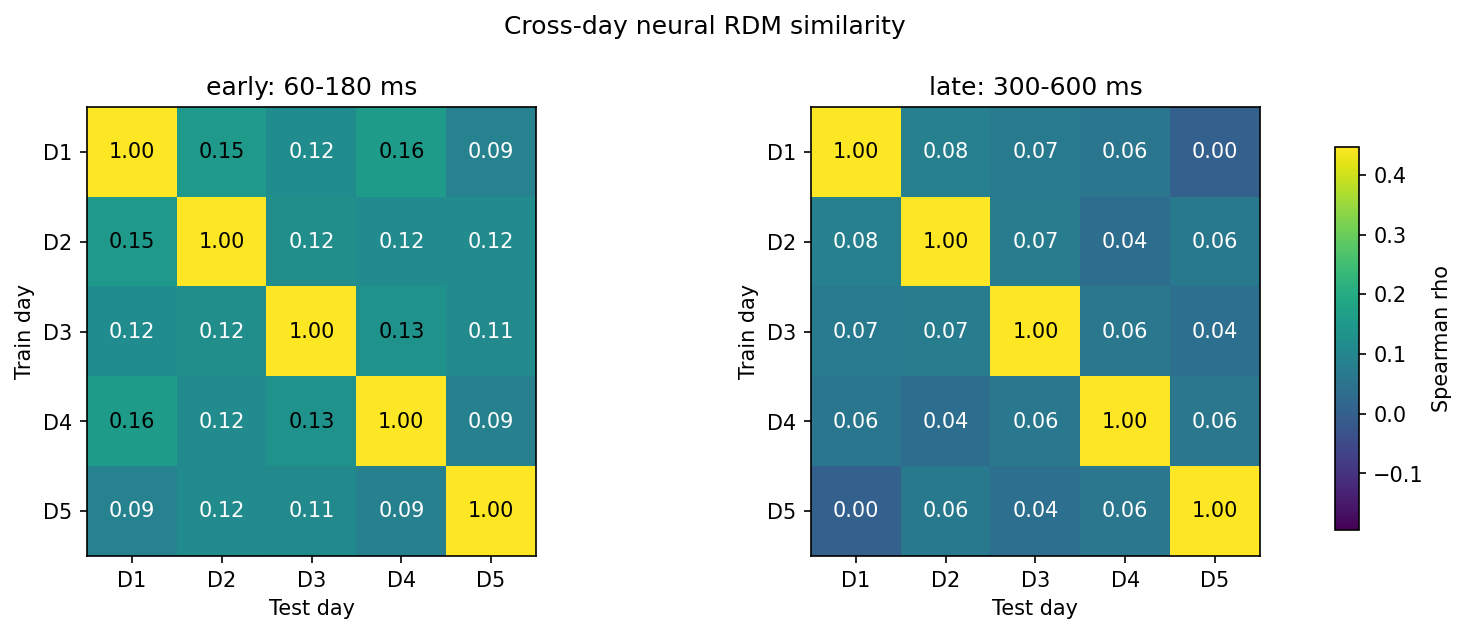
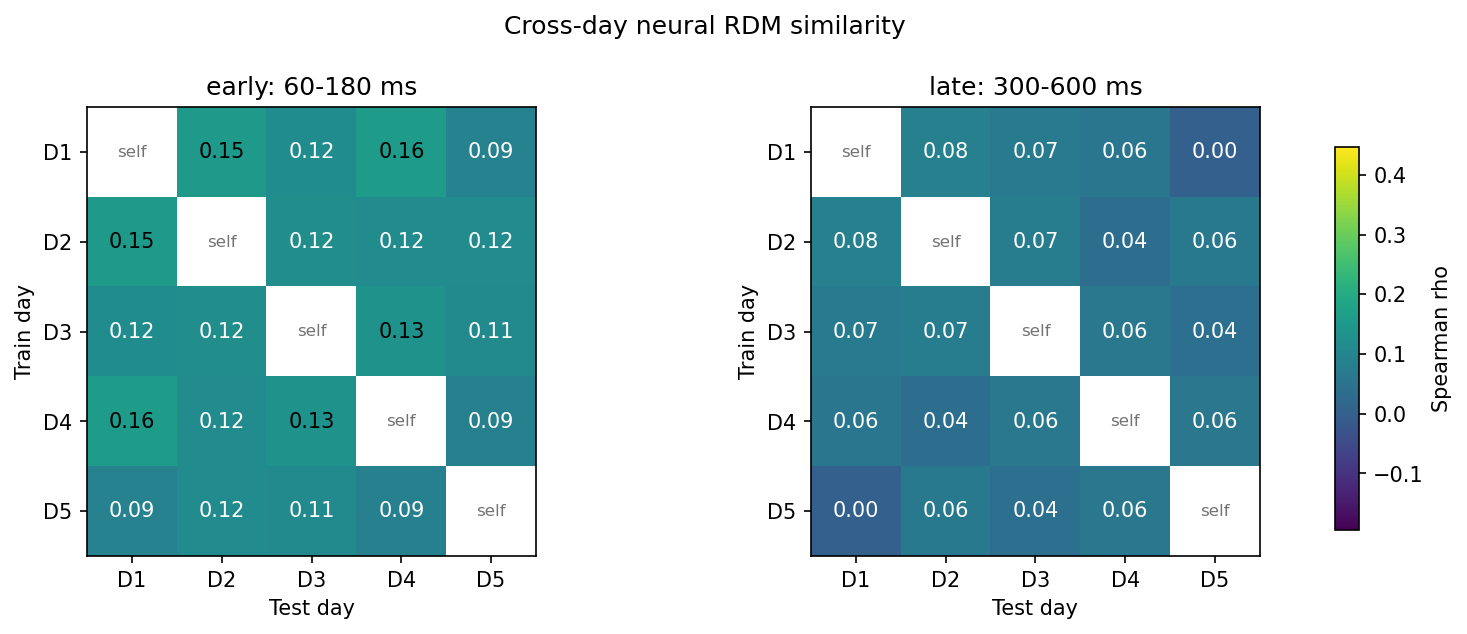
update rsa figs

Changed region(s): [[0.0613, 0.1498, 0.3681, 0.8991], [0.6748, 0.4495, 0.8589, 0.8991], [0.5521, 0.1498, 0.6748, 0.4495]]

diff --git a/code/rsa_time_resolved_stim_locked.py b/code/rsa_time_resolved_stim_locked.py
@@ -310,10 +310,12 @@ def save_cross_day_geometry_figures(
     figures_dir.mkdir(parents=True, exist_ok=True)
     matrix_fig = figures_dir / "rsa_stim_cross_day_geometry_similarity.png"
     timecourse_fig = figures_dir / "rsa_stim_cross_day_geometry_timecourse.png"
+    timecourse_5x5_fig = figures_dir / "rsa_stim_cross_day_geometry_timecourse_5x5.png"
     if similarity_df.empty:
         return {
             "cross_day_geometry_figure": None,
             "cross_day_geometry_timecourse_figure": None,
+            "cross_day_geometry_timecourse_5x5_figure": None,
         }
 
     day_grid = sorted(
@@ -337,7 +339,7 @@ def save_cross_day_geometry_figures(
             i = day_grid.index(int(row.train_day))
             j = day_grid.index(int(row.test_day))
             mat[i, j] = float(row.rho)
-        np.fill_diagonal(mat, 1.0)
+        np.fill_diagonal(mat, np.nan)
         im = ax.imshow(
             np.ma.masked_invalid(mat),
             origin="upper",
@@ -357,6 +359,8 @@ def save_cross_day_geometry_figures(
                 if np.isfinite(mat[i, j]):
                     color = "white" if mat[i, j] < (vmin + vmax) / 2 else "black"
                     ax.text(j, i, f"{mat[i, j]:.2f}", ha="center", va="center", color=color)
+                elif i == j:
+                    ax.text(j, i, "self", ha="center", va="center", color="0.45", fontsize=8)
     fig.suptitle("Cross-day neural RDM similarity")
     fig.subplots_adjust(top=0.84, bottom=0.16, left=0.08, right=0.88, wspace=0.35)
     cax = fig.add_axes([0.90, 0.20, 0.015, 0.58])
@@ -405,9 +409,51 @@ def save_cross_day_geometry_figures(
     fig.savefig(timecourse_fig, dpi=150, bbox_inches="tight")
     plt.close(fig)
 
+    fig, axes = plt.subplots(5, 5, figsize=(18, 16), squeeze=False, sharex=True, sharey=True)
+    ymin = float(similarity_df["rho"].quantile(0.02))
+    ymax = float(similarity_df["rho"].quantile(0.98))
+    for i, train_day in enumerate(day_grid):
+        for j, test_day in enumerate(day_grid):
+            ax = axes[i, j]
+            if train_day == test_day:
+                ax.axis("off")
+                ax.text(0.5, 0.5, "self", ha="center", va="center", transform=ax.transAxes)
+                continue
+            g = similarity_df[
+                (similarity_df["train_day"] == train_day)
+                & (similarity_df["test_day"] == test_day)
+            ]
+            if g.empty:
+                ax.axis("off")
+                continue
+            summary = (
+                g.groupby("time_sec", as_index=False)
+                .agg(rho=("rho", "mean"))
+                .sort_values("time_sec")
+            )
+            ax.plot(summary["time_sec"], summary["rho"], color="black", linewidth=1.2)
+            ax.axvline(0.0, color="0.5", linestyle=":", linewidth=0.8)
+            ax.axhline(0.0, color="0.5", linestyle=":", linewidth=0.8)
+            ax.set_ylim(ymin, ymax)
+            if i == 0:
+                ax.set_title(f"Test D{test_day}", fontsize=9)
+            if j == 0:
+                ax.set_ylabel(f"Train D{train_day}", fontsize=8)
+            if i == len(day_grid) - 1:
+                ax.set_xlabel("Time (s)", fontsize=8)
+            else:
+                ax.set_xticklabels([])
+            if j != 0:
+                ax.set_yticklabels([])
+    fig.suptitle("Cross-day RDM similarity timecourses by day pair")
+    fig.subplots_adjust(top=0.94, bottom=0.06, left=0.06, right=0.98, wspace=0.22, hspace=0.32)
+    fig.savefig(timecourse_5x5_fig, dpi=150, bbox_inches="tight")
+    plt.close(fig)
+
     return {
         "cross_day_geometry_figure": matrix_fig,
         "cross_day_geometry_timecourse_figure": timecourse_fig,
+        "cross_day_geometry_timecourse_5x5_figure": timecourse_5x5_fig,
     }
 
 
@@ -543,6 +589,9 @@ def save_fig_rsa_time_resolved(
         "cross_day_geometry_timecourse_figure": cross_day_figs.get(
             "cross_day_geometry_timecourse_figure"
         ),
+        "cross_day_geometry_timecourse_5x5_figure": cross_day_figs.get(
+            "cross_day_geometry_timecourse_5x5_figure"
+        ),
     }
 
 
@@ -671,6 +720,9 @@ def run_rsa_time_resolved(
         "cross_day_geometry_figure": fig_result.get("cross_day_geometry_figure"),
         "cross_day_geometry_timecourse_figure": fig_result.get(
             "cross_day_geometry_timecourse_figure"
+        ),
+        "cross_day_geometry_timecourse_5x5_figure": fig_result.get(
+            "cross_day_geometry_timecourse_5x5_figure"
         ),
     }
 
